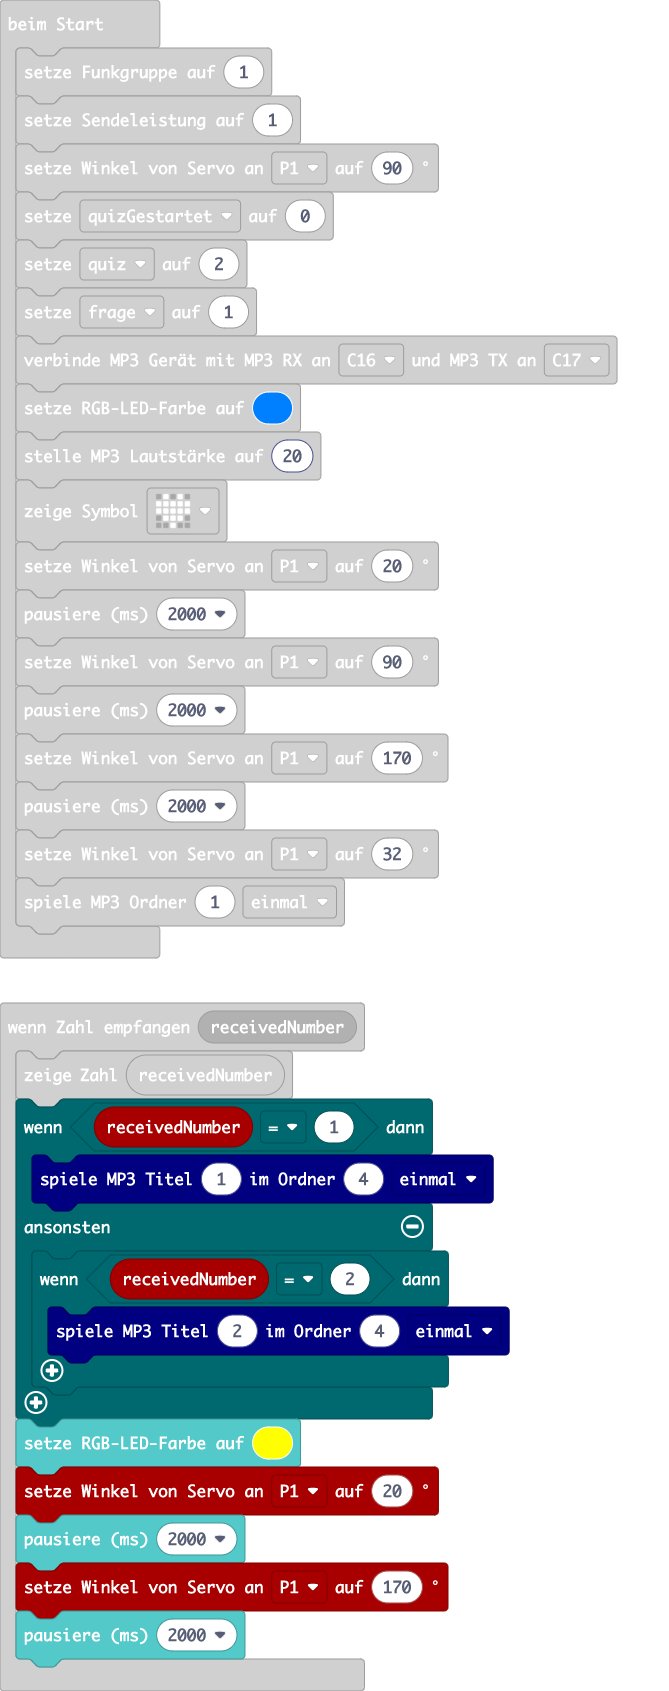
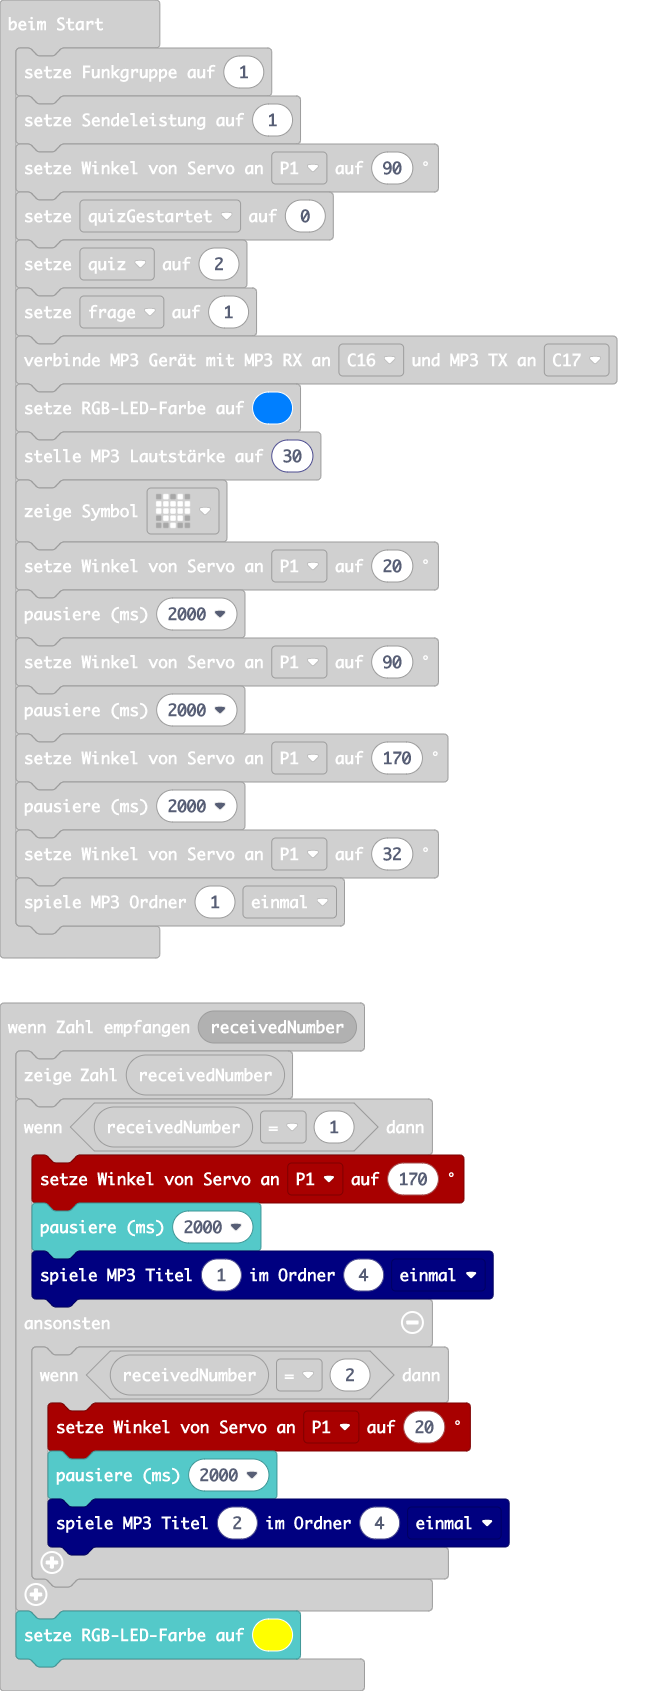
Aktualisiere main.blocks, main.ts

Changed region(s): [[0.0, 0.6458, 0.7773, 0.984]]

diff --git a/main.ts b/main.ts
@@ -6,17 +6,17 @@ function starteQuiz () {
 radio.onReceivedNumber(function (receivedNumber) {
     basic.showNumber(receivedNumber)
     if (receivedNumber == 1) {
+        pins.servoWritePin(AnalogPin.P1, 170)
+        basic.pause(2000)
         serialmp3.playMp3TrackFromFolder(1, 4, Mp3Repeat.No)
     } else {
         if (receivedNumber == 2) {
+            pins.servoWritePin(AnalogPin.P1, 20)
+            basic.pause(2000)
             serialmp3.playMp3TrackFromFolder(2, 4, Mp3Repeat.No)
         }
     }
     basic.setLedColor(0xffff00)
-    pins.servoWritePin(AnalogPin.P1, 20)
-    basic.pause(2000)
-    pins.servoWritePin(AnalogPin.P1, 170)
-    basic.pause(2000)
 })
 input.onButtonPressed(Button.A, function () {
     pins.servoWritePin(AnalogPin.P1, 10)
@@ -57,7 +57,7 @@ quiz = 2
 frage = 1
 serialmp3.connectSerialMp3(DigitalPin.C16, DigitalPin.C17)
 basic.setLedColor(0x007fff)
-serialmp3.setMp3Volume(20)
+serialmp3.setMp3Volume(30)
 basic.showIcon(IconNames.Heart)
 pins.servoWritePin(AnalogPin.P1, 20)
 basic.pause(2000)
